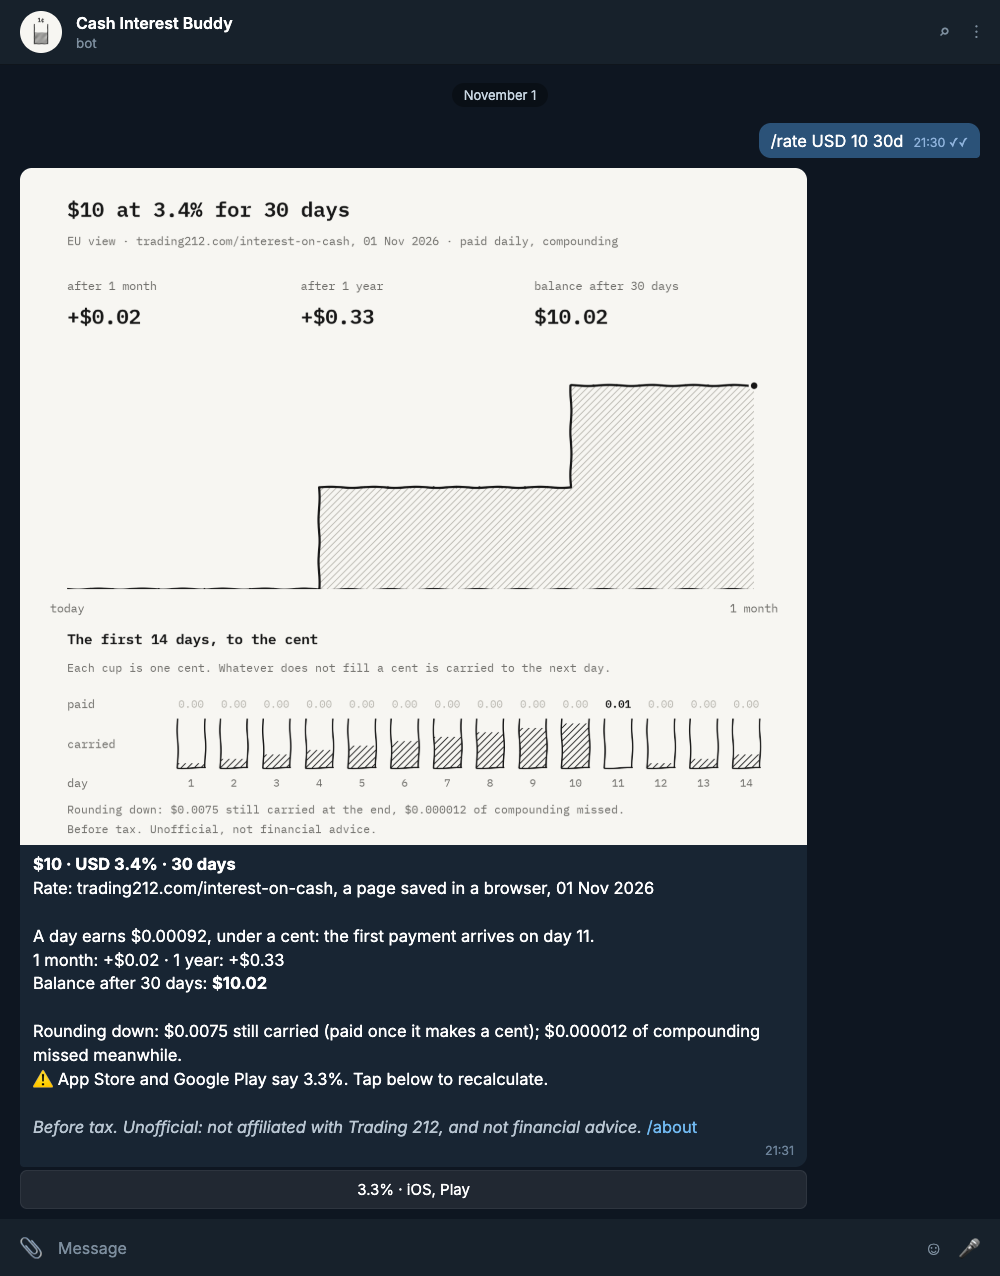
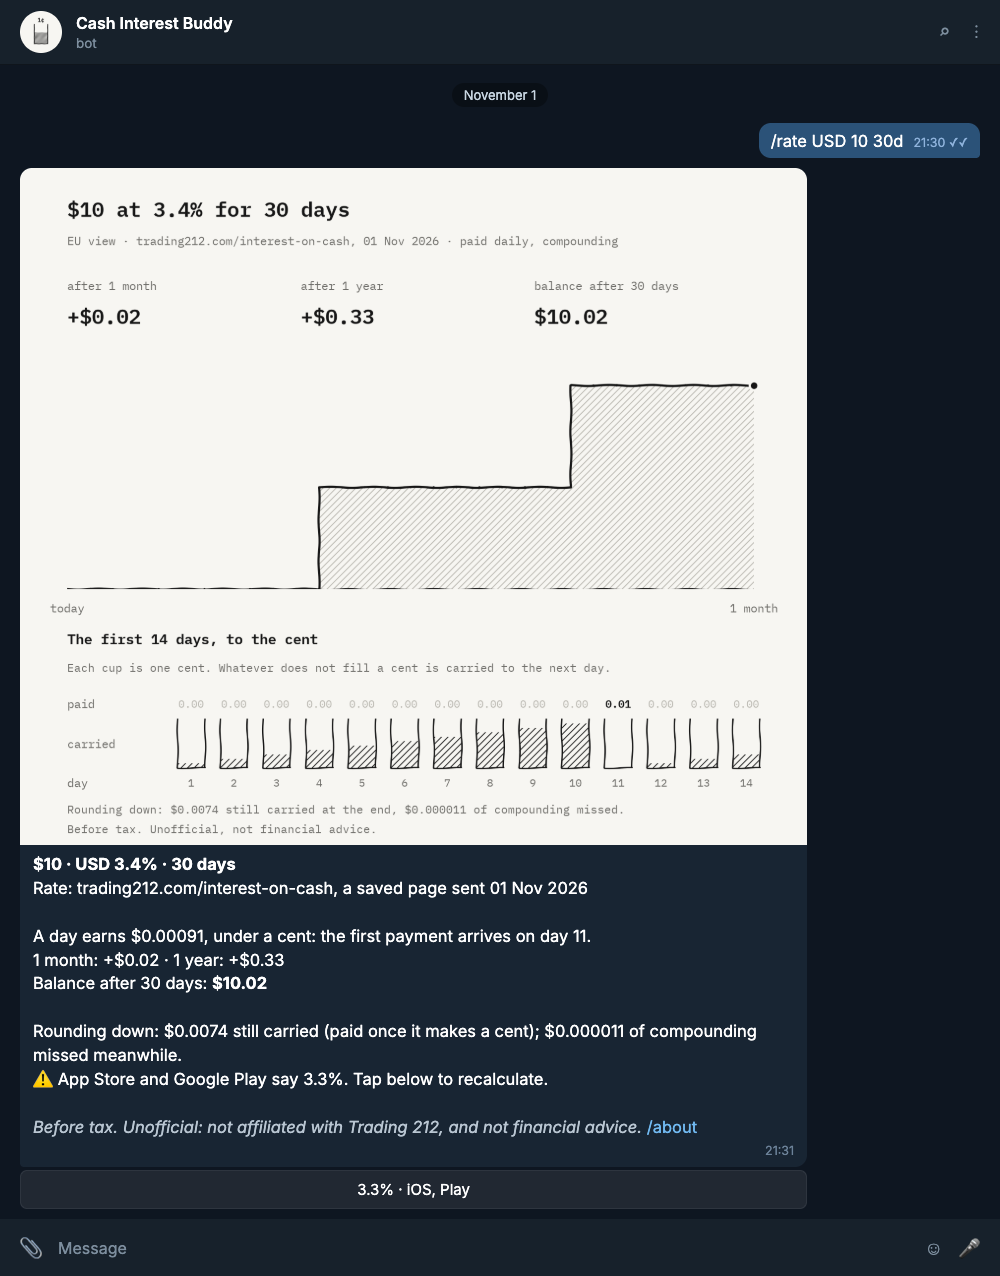
README and pictures follow the fixes

Changed region(s): [[0.217, 0.6724, 0.651, 0.7641], [0.62, 0.7947, 0.775, 0.8252]]

diff --git a/README.md b/README.md
@@ -63,8 +63,8 @@ A currency, an amount, and a period if you like (a year by default): `/rate EUR 
 The chart reads top to bottom: what the balance has earned after a month, a year and the whole
 period; how the earnings grow; and the first two weeks to the cent, each day drawn as a one-cent
 cup. A day pays out the whole cents and keeps the rest of the cup for tomorrow. The caption
-repeats every number as text. When another source quotes a different rate, a button under the
-answer recalculates at that one.
+repeats the chart's figures as text, all but the cups. When another source quotes a different
+rate, a button under the answer recalculates at that one.
 
 > :godmode: The help centre's rule, as code (`calc/interest.py`):
 >
@@ -126,14 +126,16 @@ say at that moment. `/subscribe` on its own lists your subscriptions; `/unsubscr
 
 ![subscribe](docs/assets/subscribe.png)
 
-> :shipit: No false alarms, by construction (`poller.py`). A check that fails (blocked, timed
-> out, a parser that finds nothing) is recorded and nothing else happens: the last good value
-> stays on show, marked "stale since", and nobody is notified. A change is only a successful
-> check that disagrees with the previous *successful* check of the same source, so a failure in
-> between can neither hide a change nor invent one. A currency appearing in a listing or
-> dropping out of it isn't a change either, and a parser that reads 25% somewhere fails the whole
-> page instead of reporting one bad row. A test plays exactly that sequence (value, outage,
-> same value, unreadable page, new value) and expects one alert.
+> :shipit: A failure never sends an alert (`poller.py`, `Store.record`). A check that fails —
+> blocked, timed out, a parser that finds nothing — is recorded and nothing else happens: the
+> last good value stays on show, marked "stale since", and nobody is notified. A change is only
+> a successful check that disagrees with the previous *successful* check of the same source, so
+> a failure in between can neither hide a change nor invent one. A currency appearing in a
+> listing or dropping out of it isn't a change either, and a parser that reads 25% somewhere
+> fails the whole page instead of reporting one bad row. A test plays exactly that sequence
+> (value, outage, same value, unreadable page, new value) and expects one alert. What this can't
+> catch is a parser reading a plausible wrong number, which is what the saved-page tests and the
+> nightly live check are for.
 
 ### <a name="errors"></a> When you type something odd
 
@@ -189,7 +191,8 @@ an answer, so that source is left alone until the next cycle.
 > pretend to be a browser. It still asks every six hours (so the day the site lets it in,
 > nothing needs changing) and records "HTTP 403, bot check". It keeps showing the last value it
 > has, marked stale, and the owner can send it the page saved from their own browser: it reads
-> the same JSON from the file and records it as "a page saved in a browser". The website parsers
+> the same JSON from the file and shows it as "a saved page sent" on that day. A saved page
+> carries no date, so it never alerts subscribers; the owner's reply lists what differs. The website parsers
 > are tested on exactly such saved pages ([tests/fixtures](tests/fixtures)), and the nightly live
 > check skips the website when it is challenged rather than reporting a broken parser.
 >
@@ -202,9 +205,12 @@ an answer, so that source is left alone until the next cycle.
 
 ## <a name="tax"></a> Tax
 
-The bot calculates interest before tax. Trading 212 withholds tax only for residents of Cyprus
-(17% special defence contribution and 2.65% GHS); everyone else is paid gross and declares it at
-home. `/about` says the same.
+The bot shows interest before tax. For the EU company, Trading 212's
+[tax article](https://helpcentre.trading212.com/hc/en-us/articles/15472255836957-Do-I-have-to-pay-taxes-on-the-earned-interest-on-cash)
+says tax residents of Cyprus pay a 17% withholding tax and 2.65% GHS on the interest, and
+everyone else is paid gross (their own country may still tax it). For the UK company, ISA
+interest is tax-free and the rest depends on where you are tax resident. `/about` says the same,
+for the region the bot follows.
 
 ---
 ---
@@ -239,7 +245,7 @@ file (every check of every source, and the subscriptions) lives in the `data` vo
 [`deploy/README.md`](deploy/README.md): a push to `main` runs the CI gate, and only then SSHes in
 with a key that can run one script. That script deploys the tested commit, waits for the
 healthcheck and rolls back if the new version doesn't come up. A restart doesn't poll early: the
-next poll is six hours after the last one in the database.
+next poll is six hours after the last one in the database, or straight away if that is past.
 
 ---
 ---
